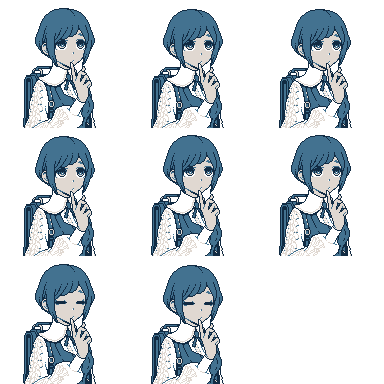
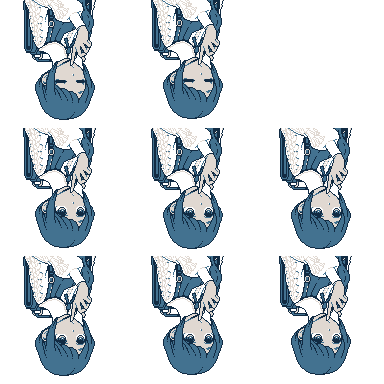
第一批图

diff --git a/main.py b/main.py
@@ -3,8 +3,6 @@ import shutil
 from PIL import Image
 import imageio
 
-REVERSE = False
-
 ATLAS_DIR = "Atlas"
 GIF_DIR = "GIF"
 SPLIT_DIR = "Split"
@@ -18,12 +16,6 @@ def clear_directory(directory):
 clear_directory(GIF_DIR)
 clear_directory(SPLIT_DIR)
 
-# 上下颠倒
-def reverse(atlas_path):
-    atlas = Image.open(atlas_path)
-    # 上下颠倒
-    atlas = atlas.transpose(Image.FLIP_TOP_BOTTOM)
-    atlas.save(atlas_path)
 
 # 判断是否为空图片，即Alpha通道全为0
 def is_empty_image(image):
@@ -40,7 +32,7 @@ def fill_empty_image(image):
         for y in range(image.height):
             r, g, b, a = image.getpixel((x, y))
             if a == 0:
-                image.putpixel((x, y), (255, 255, 255, 255))
+                image.putpixel((x, y), (0, 0, 0, 255))
     return image
     
 
@@ -67,6 +59,8 @@ def split(atlas_path, file_prefix, scale=1):
             if scale != 1:
                 # 用nearest neighbor缩放
                 tile = tile.resize((tile_width * scale, tile_height * scale), Image.NEAREST)
+                # 颠倒
+                tile = tile.transpose(Image.FLIP_TOP_BOTTOM)
                 tile.save(tile_path)
 
 # 使用imageio将分割的图片转换为GIF
@@ -82,15 +76,13 @@ def create_gif_from_split(file_prefix):
     split_images.sort()  # 确保顺序正确
     images = [imageio.imread(img) for img in split_images]
     gif_path = os.path.join(GIF_DIR, f"{file_prefix}.gif")
-    imageio.mimsave(gif_path, images, duration=0.1, loop=0)
+    imageio.mimsave(gif_path, images, duration=0.3, loop=0)
 
 pngs = [f for f in os.listdir(ATLAS_DIR) if f.endswith('.png')]
 for png in pngs:
     atlas_path = os.path.join(ATLAS_DIR, png)
     gif_name = os.path.splitext(png)[0]
     
-    if REVERSE:
-        reverse(atlas_path)
-
     split(atlas_path, gif_name, 4)
     create_gif_from_split(gif_name)
+shutil.rmtree(SPLIT_DIR)  # 清空分割目录以便下次使用
